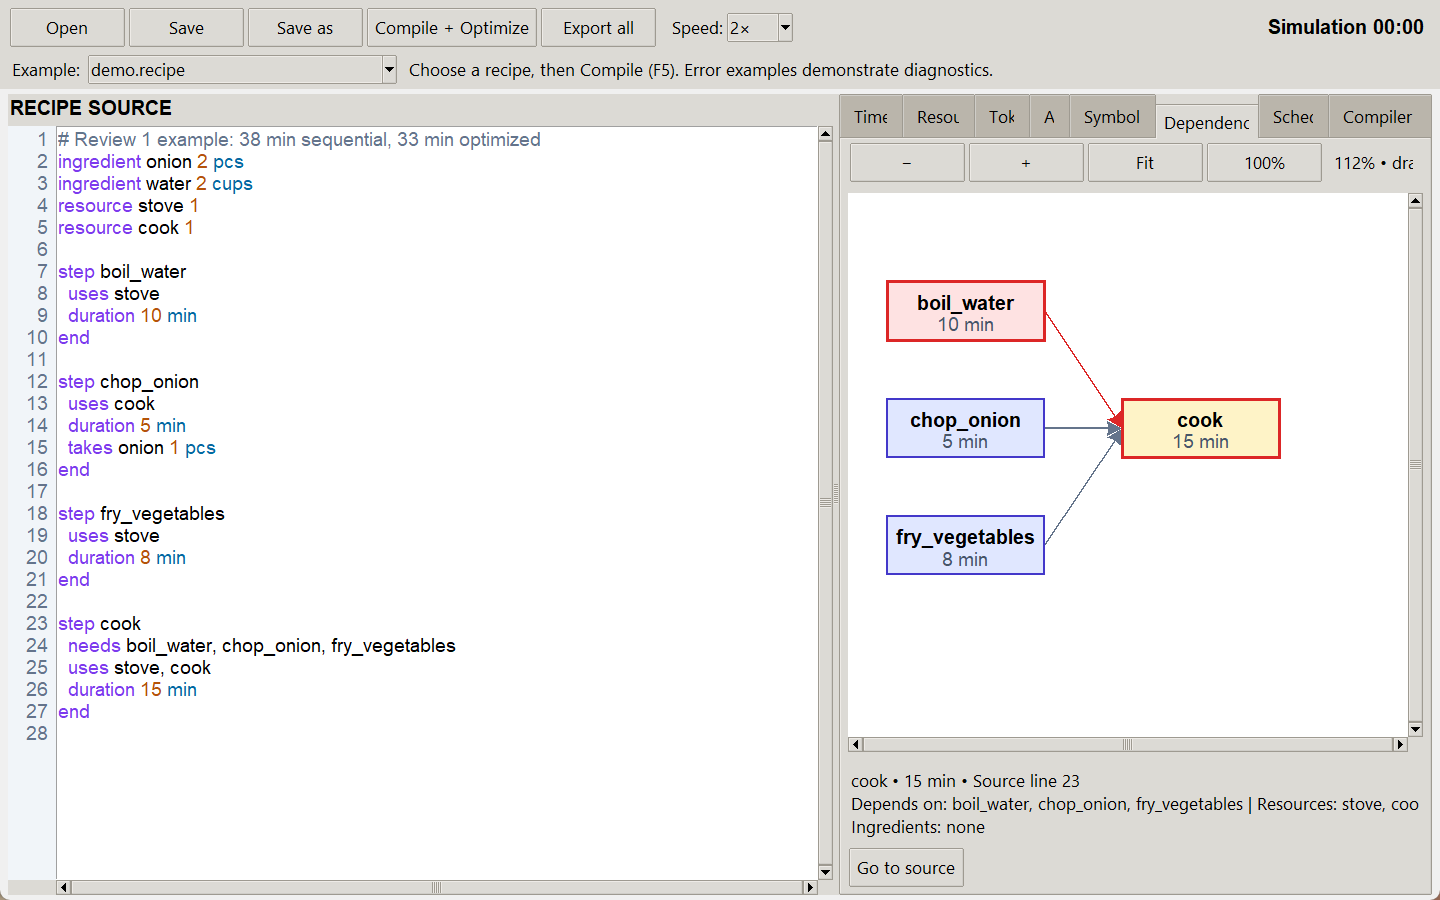
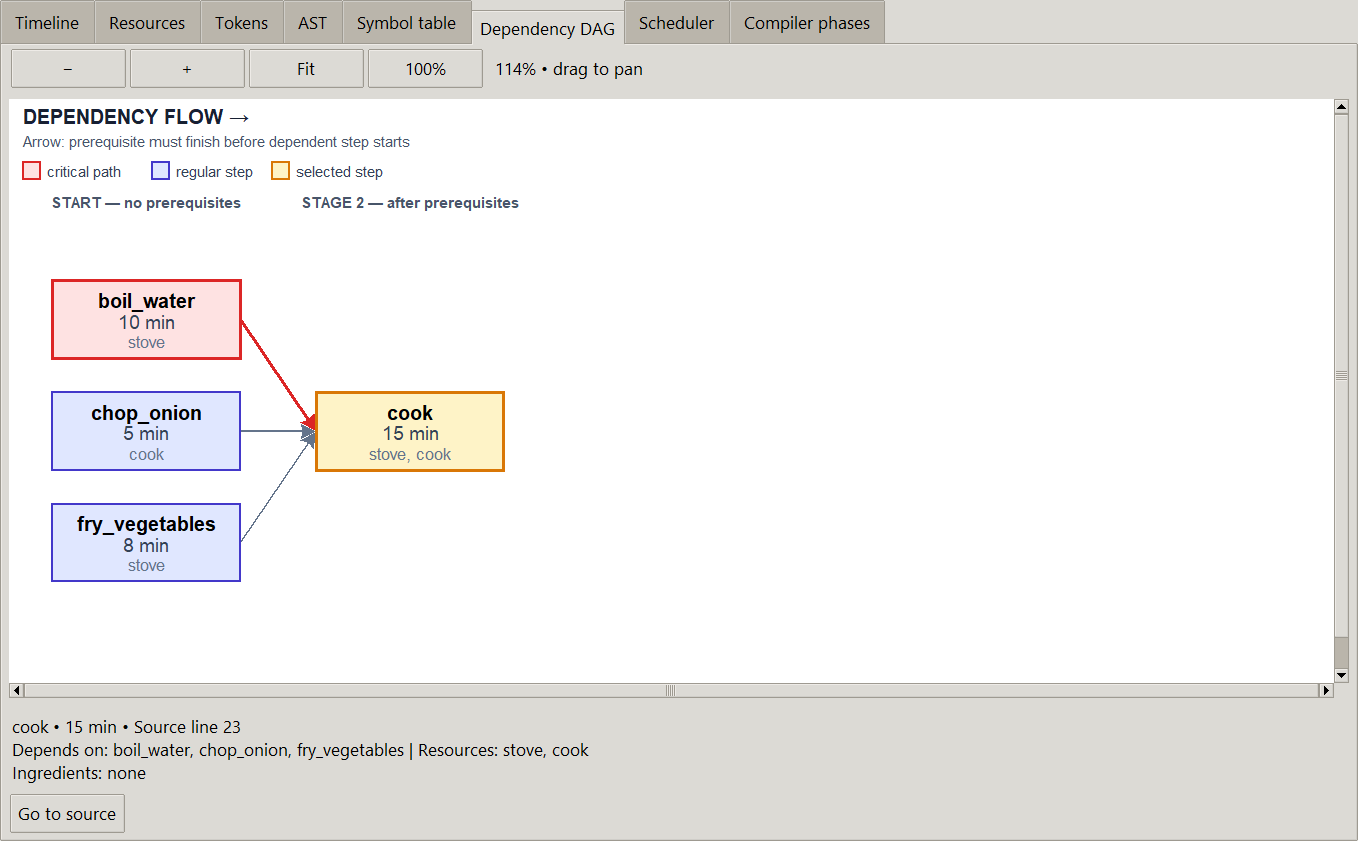
Refresh README with focused visualization guides

diff --git a/README.md b/README.md
@@ -77,16 +77,15 @@ Choose a recipe from the example menu and press **Compile + Optimize** or `F5`.
 - **Timeline** explains why each step is running, waiting or complete.
 - **Resources** shows which step occupies each resource unit during playback.
 
-<table>
-  <tr>
-    <td><img src="docs/images/graph.png" alt="Clickable dependency graph"></td>
-    <td><img src="docs/images/scheduler.png" alt="Scheduling strategy comparison"></td>
-  </tr>
-  <tr>
-    <td align="center">Dependency graph</td>
-    <td align="center">Scheduling comparison</td>
-  </tr>
-</table>
+### Reading the visualizations
+
+- In **Resources**, time runs left to right in minutes. Each row is one available resource unit; a colored bar shows which step holds it and for how long.
+- In **Dependency DAG**, stages run left to right. Each arrow points from a prerequisite to the step that must wait for it. Red nodes and arrows mark the critical path; amber marks the selected step.
+- In **Scheduler**, the top table compares completion times. The lower table shows the chosen start/end times, resources and dependencies.
+
+![Clickable dependency graph with stages, direction and legend](docs/images/graph.png)
+
+![Scheduling strategy and final schedule comparison](docs/images/scheduler.png)
 
 ## Scheduling
 
@@ -100,7 +99,7 @@ For recipes with up to eight steps, bounded event-time search attempts to prove 
 python -m unittest discover -s tests -v
 ```
 
-The suite contains **66 tests** covering compiler phases, scheduling, validation, exports, simulation, CLI behavior and real Tkinter interactions.
+The suite contains **67 tests** covering compiler phases, scheduling, validation, exports, simulation, CLI behavior and real Tkinter interactions.
 
 ## Project layout
 
